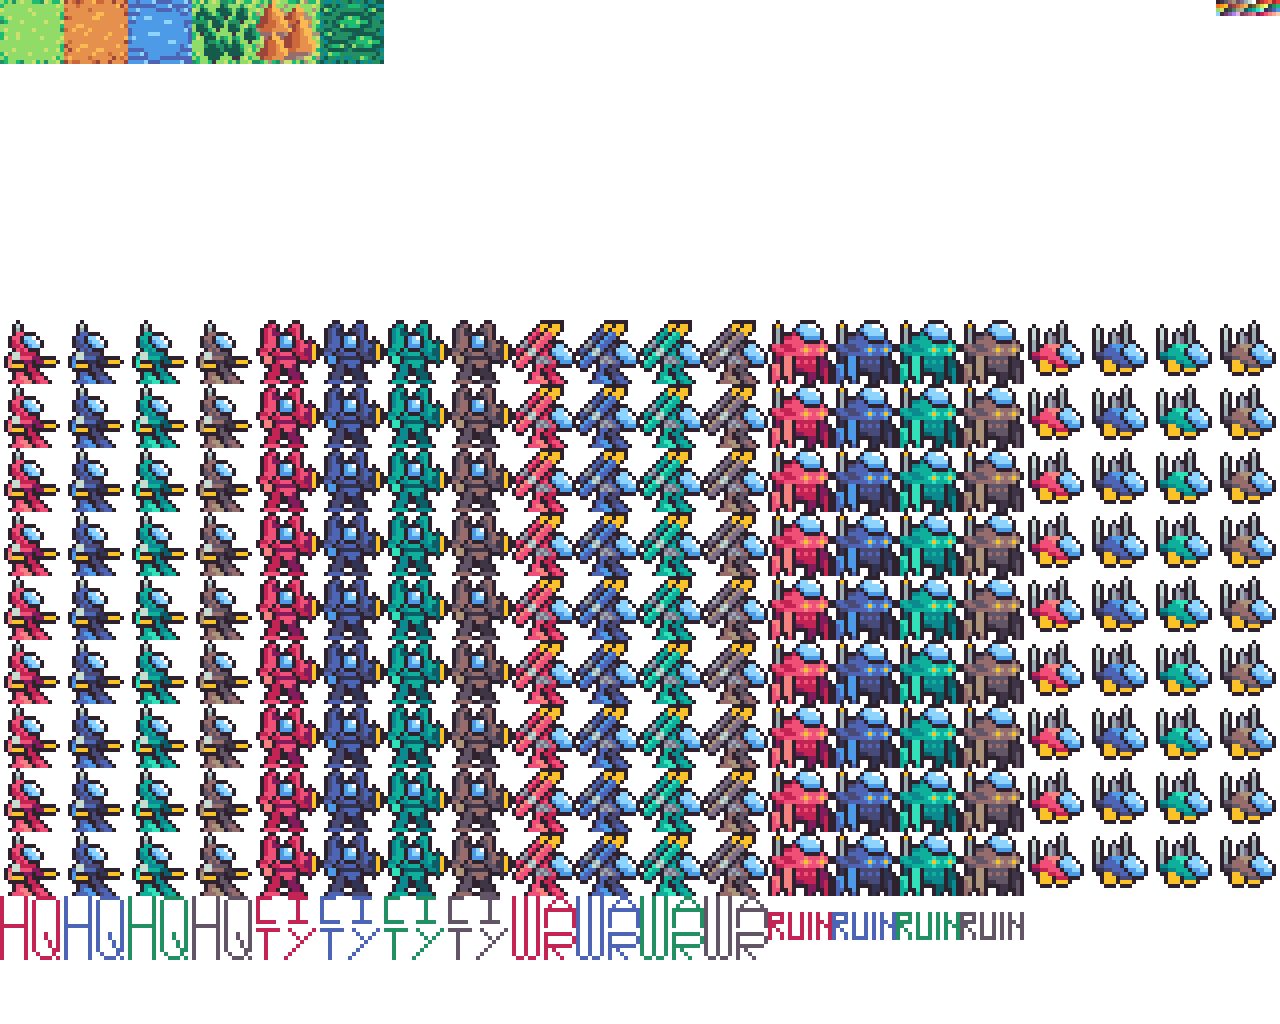
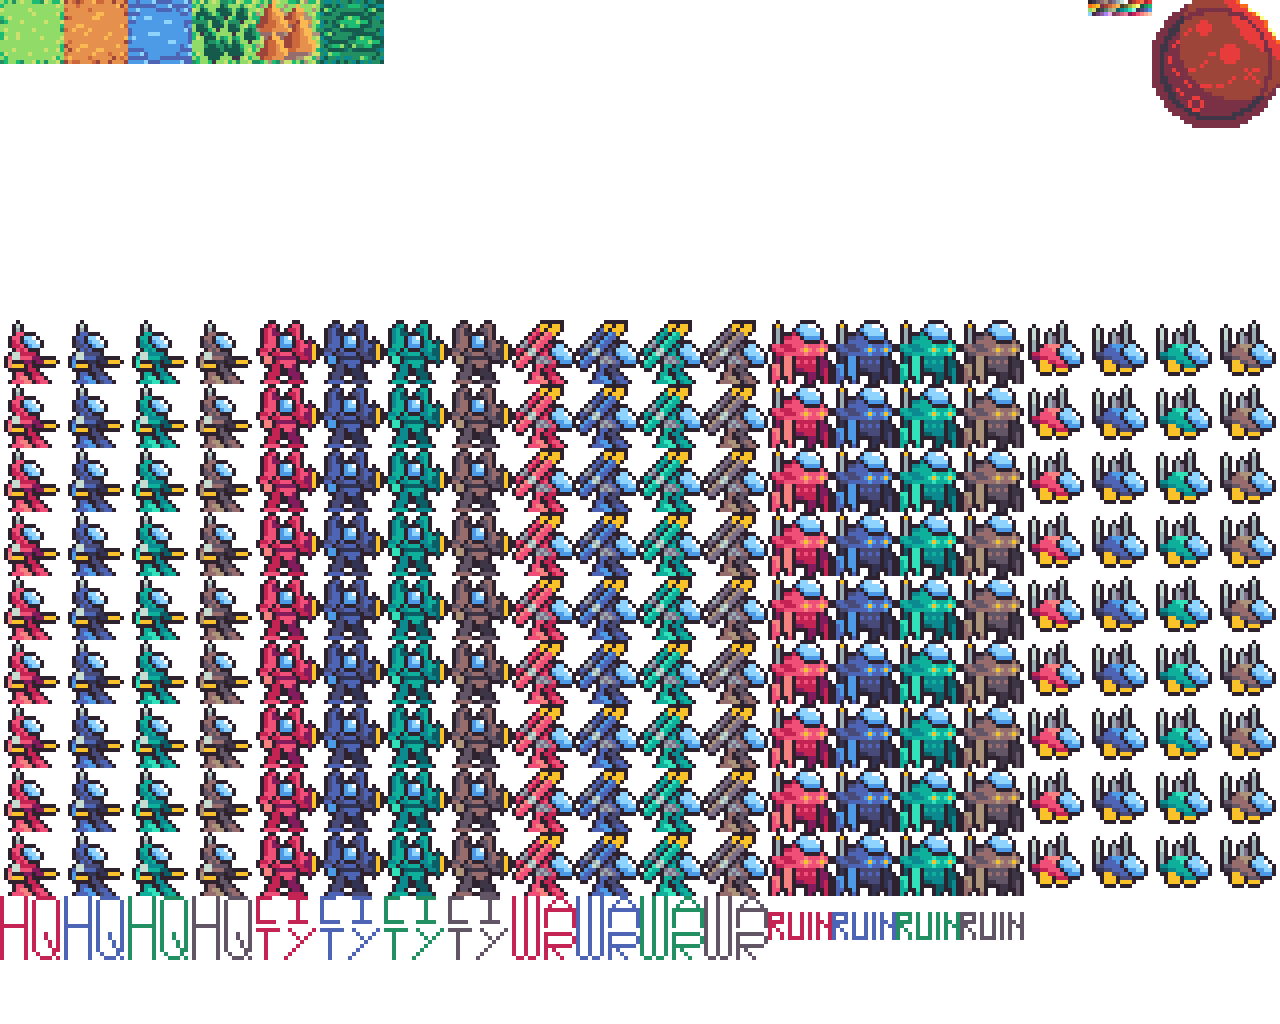
Gameplay UI: Added Zoom/Overview button that displays the entire map along with units.

Changed region(s): [[0.8438, 0.0, 1.0, 0.125]]

diff --git a/js/ui/gameplay.js b/js/ui/gameplay.js
@@ -31,6 +31,18 @@ function controlBarUISetup(fontSize) {
         new SubState(tr(), controlBar), false, vec2(10 * pixelSize, 0), vec2(9, 1), true));
 }
 
+function disableControlBar()
+{
+    for(let i = 0; i < controlBar.length; i++)
+        controlBar[i].enabled = false;
+}
+
+function enableControlBar()
+{
+    for(let i = 0; i < controlBar.length; i++)
+        controlBar[i].enabled = true;
+}
+
 function getActiveTeamColor() {
     if (ui.stateIndex != GAMEPLAY)
         return "#000000";
@@ -122,7 +134,7 @@ function updateUnitActionButtons() {
 function gameplaySetup() {
     map = new GameMap(map1, 28, 16);
     manager = new PlayerManager([
-        new Player(RED_TEAM, [
+        /*new Player(RED_TEAM, [
             new MapUnit(RIFLE_MECH, vec2(4, 4)),
             new MapUnit(CANNON_MECH, vec2(5, 4)),
             new MapUnit(ARTILLERY_MECH, vec2(6, 4)),
@@ -149,8 +161,8 @@ function gameplaySetup() {
             new MapUnit(ARTILLERY_MECH, vec2(4, 3)),
             new MapUnit(SUPPORT_MECH, vec2(5, 3)),
             new MapUnit(TELEPORT_MECH, vec2(6, 3))
-        ]),
-        /*
+        ]),*/
+        
         new Player(RED_TEAM, [
             new MapUnit(RIFLE_MECH, vec2(4, 4)),
             new MapUnit(TELEPORT_MECH, vec2(7, 5)),
@@ -161,7 +173,7 @@ function gameplaySetup() {
             new MapUnit(SUPPORT_MECH, vec2(11, 7)),
             new MapUnit(ARTILLERY_MECH, vec2(14, 8))
         ])
-        */
+        
     ]);
 
     cam = vec2(Math.floor((gameWidth / maxDisplayTilesPerRow) / 2), Math.floor((gameWidth / maxDisplayTilesPerRow) / 2));
@@ -178,6 +190,12 @@ function gameplaySetup() {
         new Button(tr(), "#00000066", "#FFFFFFFF", "#000000BB"));
     gameplay.push(rightUnitChangeBtn);
     unitControlsUISetup();
+    var zoomBtnSize = pixelSize/1.4;
+    gameplayZoomBtn = new TextButton(tr(vec2(0.01, gameHeight - (128 * zoomBtnSize)),
+        vec2(128*zoomBtnSize, 128*zoomBtnSize)),
+        new Label(tr(), "", fontSize.toString() + "px " + uiContext.fontFamily),
+        new Button(tr(), "#00000000", "#00000000", "#00000000"));
+    gameplay.push(gameplayZoomBtn);
     //Gameplay UI END
 
     updateUnitActionButtons();
@@ -200,6 +218,35 @@ function gameplayDraw(deltaTime) {
     else if (getPlayer().getSelectedMapUnit().right == 0) {
         map.drawUnitAttack(cam, getPlayer().getSelectedMapUnit());
     }
+
+    if(gameplayZoomBtn.button.output == UIOUTPUT_HOVER)
+    {
+        var oldzoomBtnSize = pixelSize/1.4;
+        var zoomBtnSize = pixelSize/1.3;
+        if(!zoomLock)
+        {
+            gameplayZoomBtn.label.text = "ZOOM LOCK OFF";
+            gameplayZoomBtn.label.textColor = "#FFBBBBFF";
+        }
+        else
+        {
+            gameplayZoomBtn.label.text = "ZOOM LOCK ON";
+            gameplayZoomBtn.label.textColor = "#00FF00FF";
+        }
+        drawSheet(18, vec2(32 * oldzoomBtnSize, gameHeight - (96 * oldzoomBtnSize)), vec2(zoomBtnSize, zoomBtnSize));
+        drawSheet(19, vec2(96 * oldzoomBtnSize, gameHeight - (96 * oldzoomBtnSize)), vec2(zoomBtnSize, zoomBtnSize));
+        drawSheet(38, vec2(32 * oldzoomBtnSize, gameHeight - (32 * oldzoomBtnSize)), vec2(zoomBtnSize, zoomBtnSize));
+        drawSheet(39, vec2(96 * oldzoomBtnSize, gameHeight - (32 * oldzoomBtnSize)), vec2(zoomBtnSize, zoomBtnSize));
+    }
+    else
+    {
+        var zoomBtnSize = pixelSize/1.4;
+        gameplayZoomBtn.label.text = "";
+        drawSheet(18, vec2(32 * zoomBtnSize, gameHeight - (96 * zoomBtnSize)), vec2(zoomBtnSize, zoomBtnSize));
+        drawSheet(19, vec2(96 * zoomBtnSize, gameHeight - (96 * zoomBtnSize)), vec2(zoomBtnSize, zoomBtnSize));
+        drawSheet(38, vec2(32 * zoomBtnSize, gameHeight - (32 * zoomBtnSize)), vec2(zoomBtnSize, zoomBtnSize));
+        drawSheet(39, vec2(96 * zoomBtnSize, gameHeight - (32 * zoomBtnSize)), vec2(zoomBtnSize, zoomBtnSize));
+    }
 }
 
 function gameplayUpdate(deltaTime) {
@@ -215,7 +262,7 @@ function gameplayUpdate(deltaTime) {
         leftUnitChangeBtn.enabled = rightUnitChangeBtn.enabled =
             unitUpBtn.enabled = unitLeftBtn.enabled = unitDownBtn.enabled = unitRightBtn.enabled = false;
     }
-    else {
+    else if(controlBar[0].enabled) {
         leftUnitChangeBtn.enabled = rightUnitChangeBtn.enabled = true;
     }
 
@@ -248,6 +295,40 @@ function gameplayEvent(deltaTime) {
             actionPointsLabel.text = "AP: " + getPlayer().actionPoints.toString();
         }
     }
+
+    //ZOOM ON SELECT/TOGGLE
+    if(gameplayZoomBtn.button.output == UIOUTPUT_SELECT) {
+        zoomLock = !zoomLock;
+        /*if(maxDisplayTilesPerRow == defaultTilesPerRow) {
+            maxDisplayTilesPerRow = zoomedTilesPerRow;
+            updateTileSizes();
+        } else if(maxDisplayTilesPerRow == zoomedTilesPerRow) {
+            maxDisplayTilesPerRow = defaultTilesPerRow;
+            updateTileSizes();
+        }*/
+    }
+
+    //Gameplay Zoom Button Events START
+    if(gameplayZoomBtn.button.output == UIOUTPUT_HOVER) {
+        if(maxDisplayTilesPerRow == defaultTilesPerRow) {
+            disableControlBar();
+            leftUnitChangeBtn.enabled = rightUnitChangeBtn.enabled = false;
+            maxDisplayTilesPerRow = zoomedTilesPerRow;
+            updateTileSizes();
+        }
+    }
+    else if(maxDisplayTilesPerRow == zoomedTilesPerRow && !zoomLock)
+    {
+        enableControlBar();
+        leftUnitChangeBtn.enabled = rightUnitChangeBtn.enabled = true;
+        maxDisplayTilesPerRow = defaultTilesPerRow;
+        updateTileSizes();
+    }
+    if(maxDisplayTilesPerRow == zoomedTilesPerRow) {
+        cam.x = ((tileSize/2) + (tileGap/2));
+        cam.y = 5.0 * pixelSize;
+    }
+    //Gameplay Zoom Button Events END
 
     //Gameplay UI Button Events
     if (endTurnBtn.button.output == UIOUTPUT_SELECT) {

diff --git a/js/game/unit.js b/js/game/unit.js
@@ -42,7 +42,7 @@ class Unit {
 
     draw(teamID, offset, scale) {
         if (typeof scale == "undefined") scale = vec2(1, 1);
-        drawSheet(120 + (4 * this.type) + teamID, offset.add(this.position), scale);
+        drawSheet(100 + (4 * this.type) + teamID, offset.add(this.position), scale);
     }
 }
 
@@ -68,12 +68,16 @@ class MapUnit {
     draw(teamID, offset) {
         var sc = vec2((tileSize / 64) + gridBlackLinesFixFactor,
             (tileSize / 64) + gridBlackLinesFixFactor);
-        this.unit.position = lerpVec2(this.unit.position, vec2(Math.floor(this.mapPosition.x * tileSize) + (this.mapPosition.x * tileGap),
-            Math.floor(this.mapPosition.y * tileSize) + (this.mapPosition.y * tileGap)), 0.25);
+        if(maxDisplayTilesPerRow != defaultTilesPerRow)
+            this.unit.position = vec2(Math.floor(this.mapPosition.x * tileSize) + (this.mapPosition.x * tileGap),
+                Math.floor(this.mapPosition.y * tileSize) + (this.mapPosition.y * tileGap));
+        else
+            this.unit.position = lerpVec2(this.unit.position, vec2(Math.floor(this.mapPosition.x * tileSize) + (this.mapPosition.x * tileGap),
+                Math.floor(this.mapPosition.y * tileSize) + (this.mapPosition.y * tileGap)), 0.25);
 
         this.unit.draw(teamID, offset, sc);
 
-        if (ui.stateIndex != BATTLESCREEN)
+        if (ui.stateIndex != BATTLESCREEN && maxDisplayTilesPerRow == defaultTilesPerRow)
         {
             spritesRenderer.font = (24 * pixelSize).toString() + "px OrangeKid";
             drawText(spritesRenderer, this.hp.toString(), offset.add(this.unit.position.add(vec2(-31.6 * pixelSize, -16.6 * pixelSize))), "black");

diff --git a/js/game/map.js b/js/game/map.js
@@ -3,6 +3,9 @@ var tileSize;
 var tileGap;
 var tileGapFactor = 8.0;
 
+var defaultTilesPerRow = 16;
+var zoomedTilesPerRow = 34;
+var zoomLock = false;
 var maxDisplayTilesPerRow = 16;
 var gridBlackLinesFixFactor = 0.02;
 
